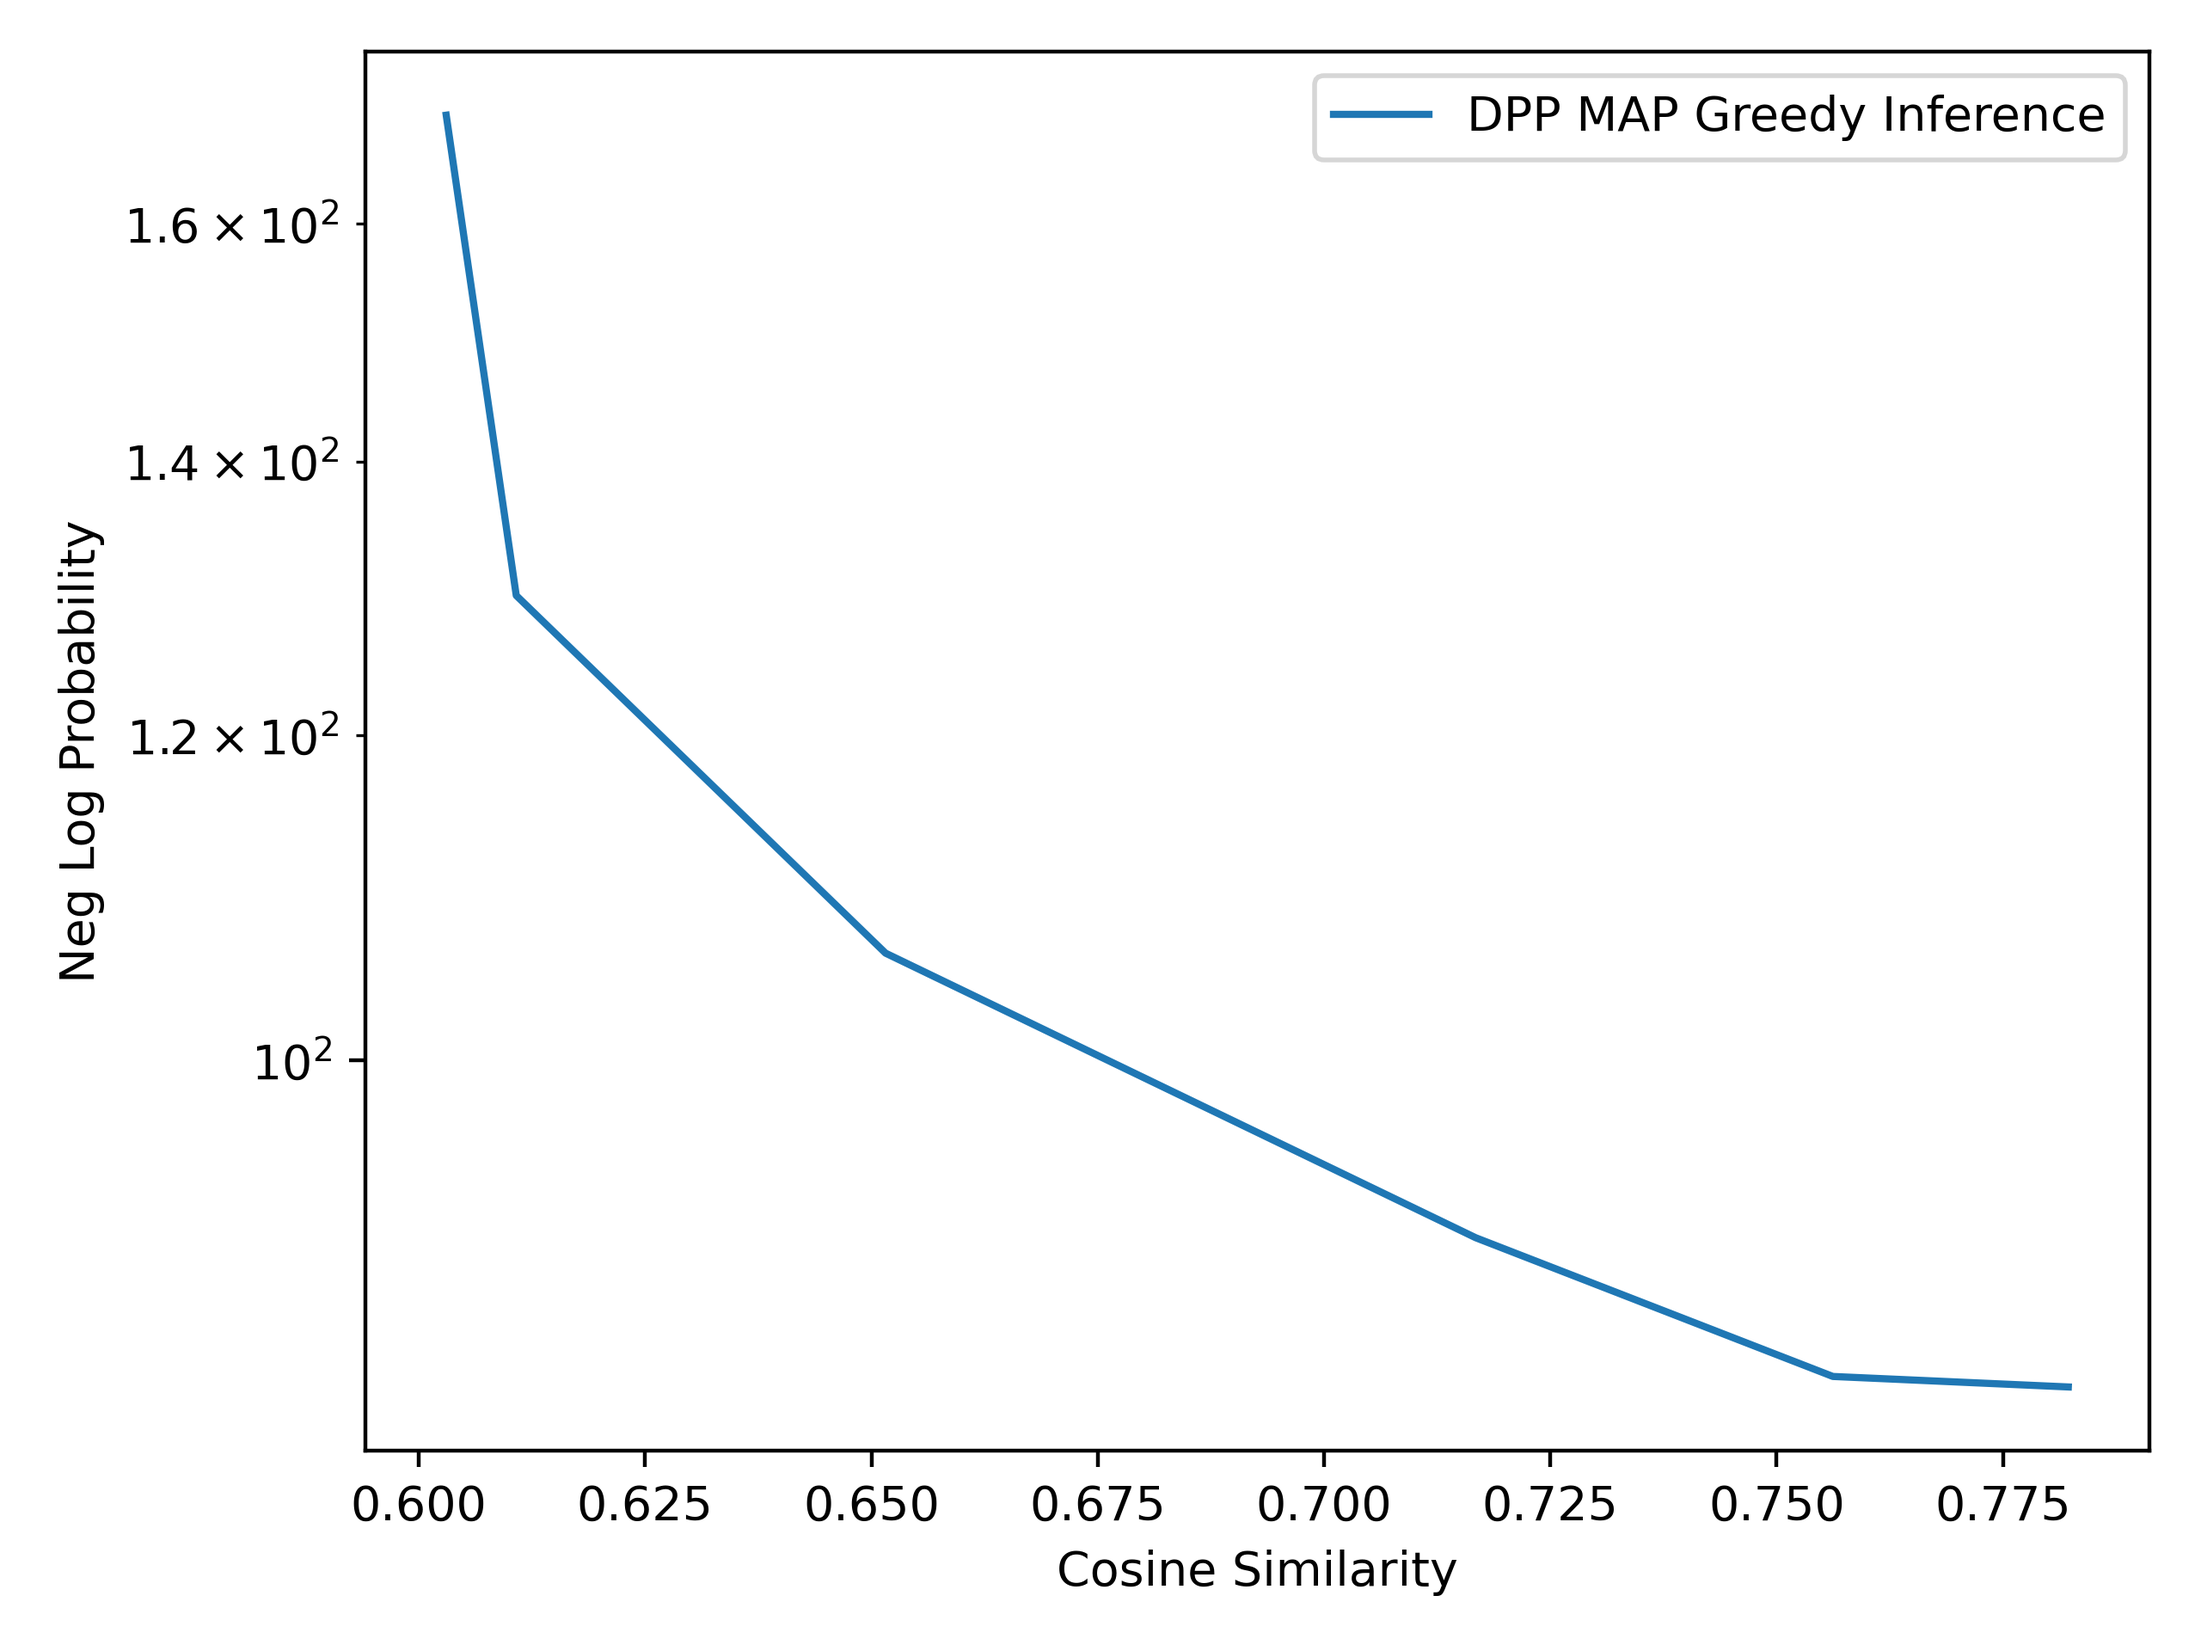
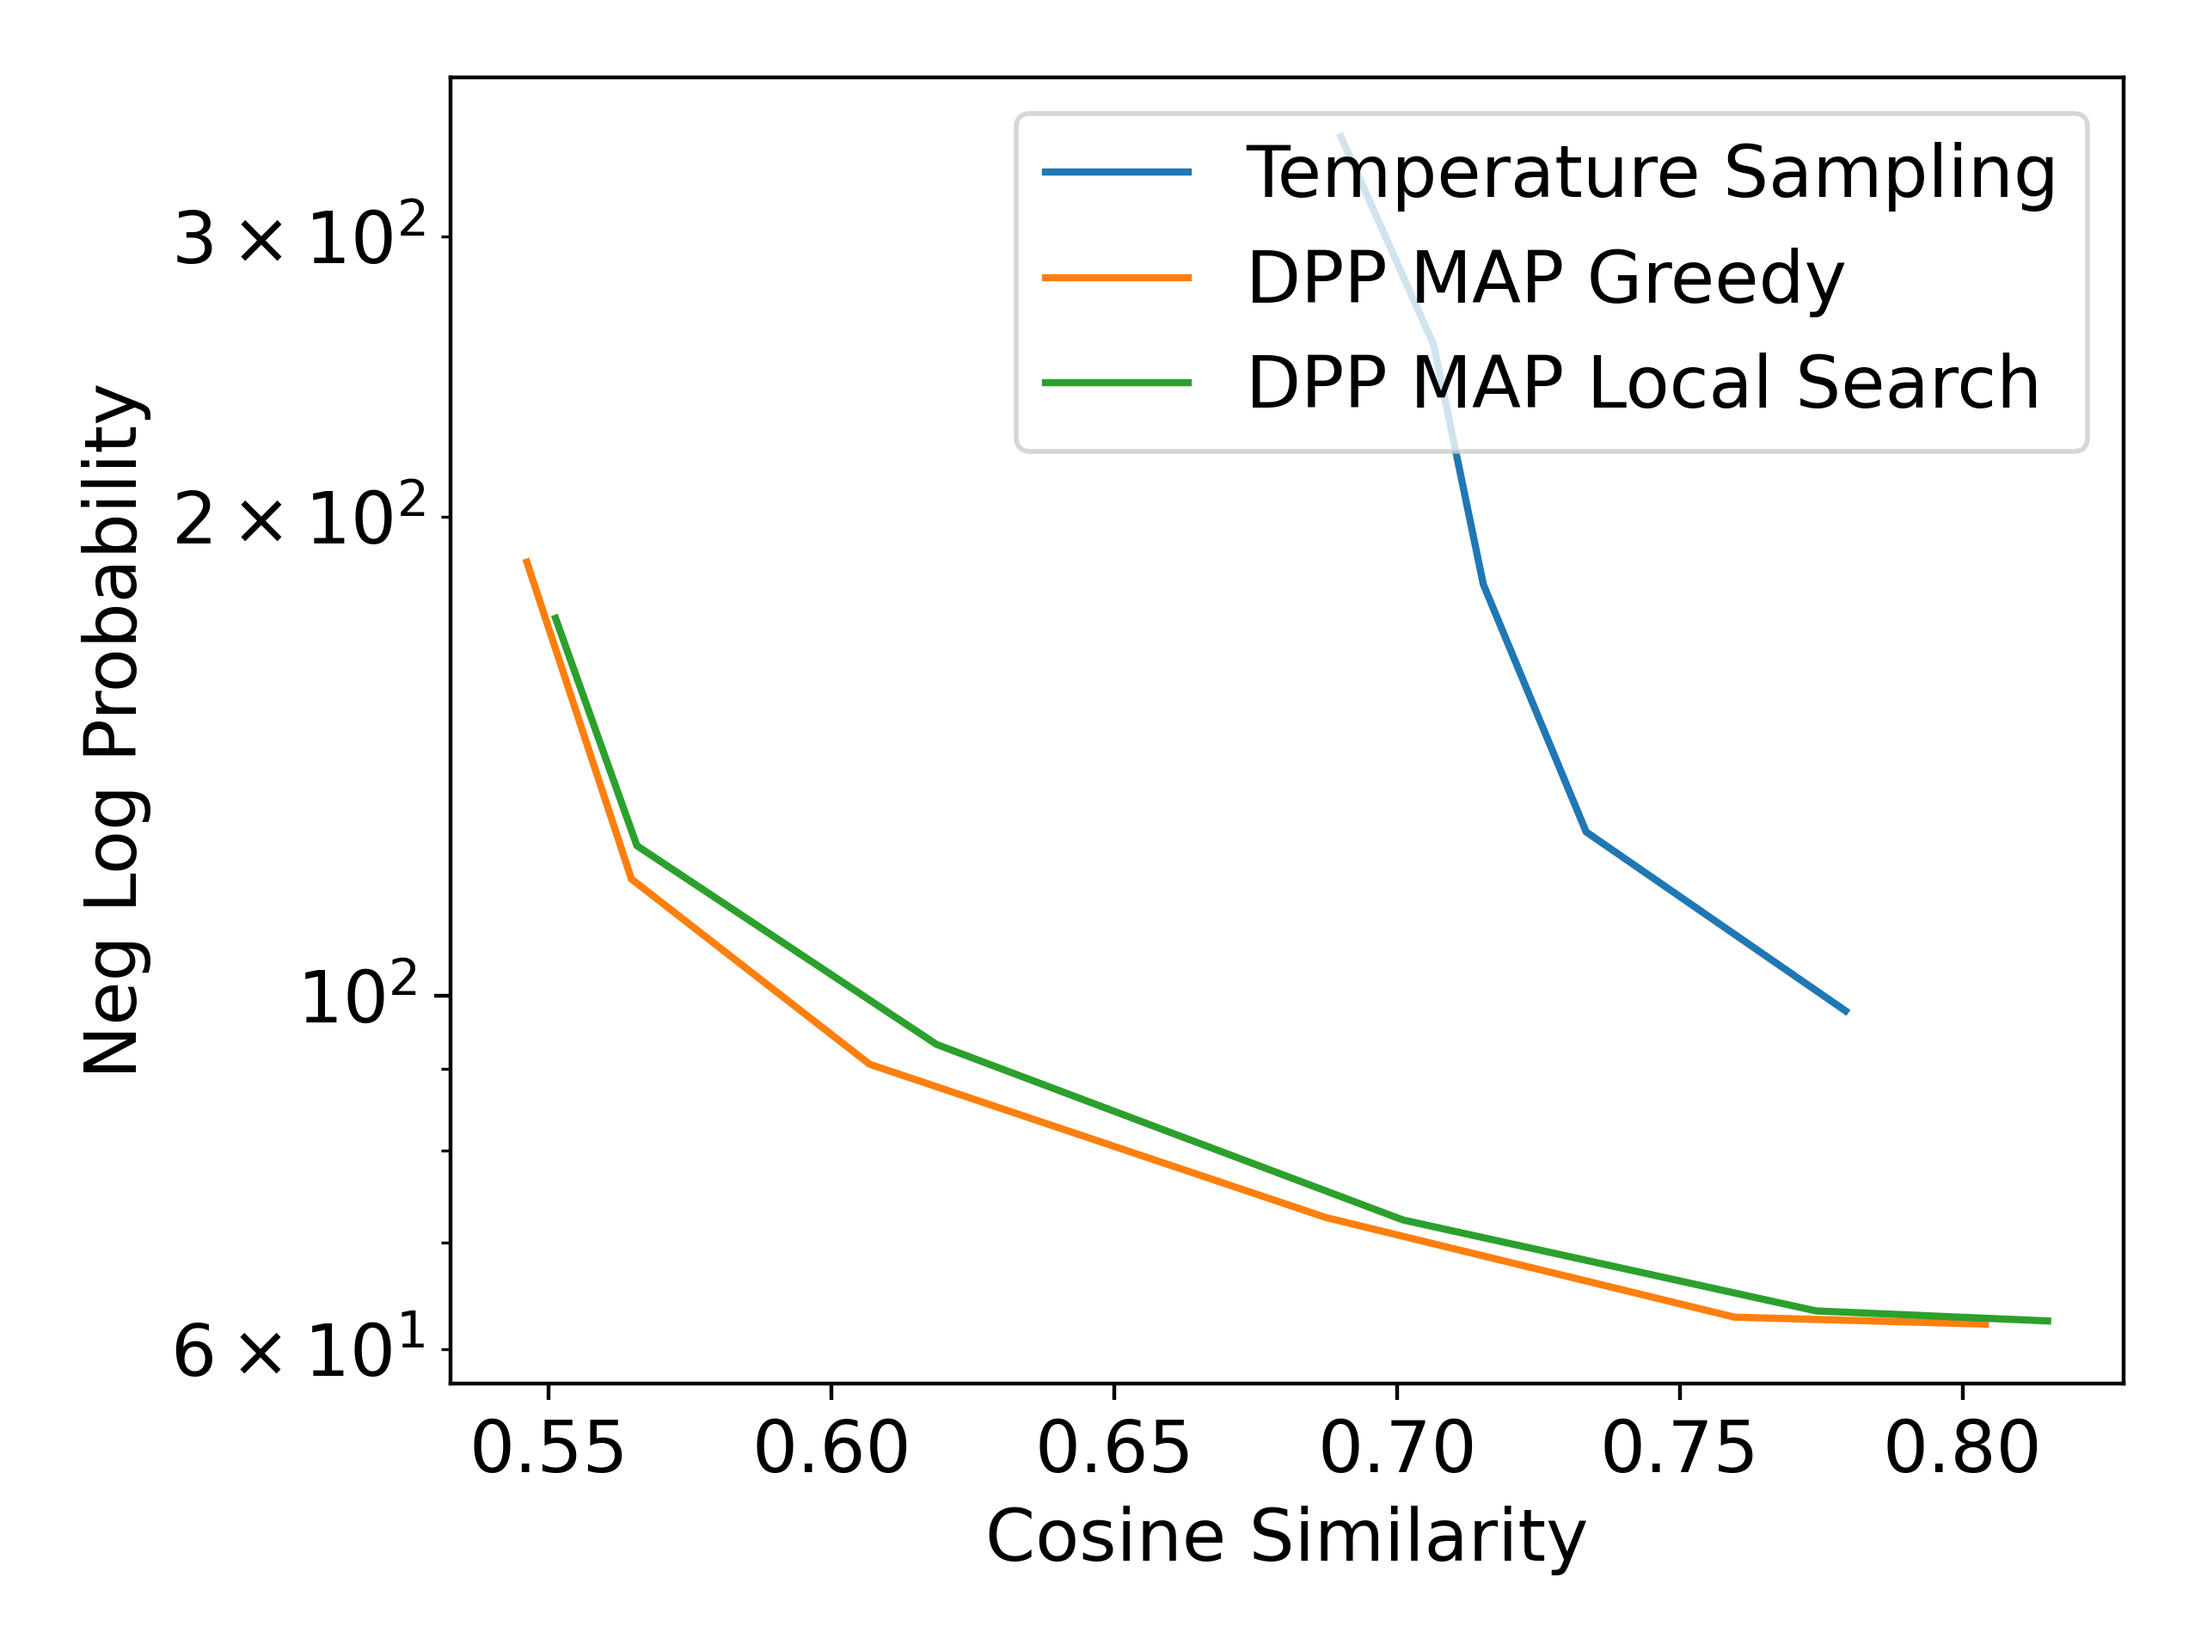
update

diff --git a/run_exp.py b/run_exp.py
@@ -5,6 +5,8 @@ import numpy as np
 import fire
 import pickle
 import time
+import torch
+import random
 
 from typing import List
 from dataclasses import dataclass
@@ -32,10 +34,20 @@ def preprocess_rocstories(df, max_samples=1000):
         })
     return data
 
+
 def load_rocstories(max_samples=1000):
     df = pd.read_csv('datasets/ROCStories/dataset_2017.csv')
     dataset = preprocess_rocstories(df, max_samples=max_samples)
     return dataset
+
+
+def seed_everything(seed):
+    torch.manual_seed(seed)
+    random.seed(seed)
+    np.random.seed(seed)
+    torch.manual_seed(seed)
+    torch.backends.cudnn.deterministic = True
+    torch.backends.cudnn.benchmark = False
 
 
 def evaluate(dataset, decoding_fn, embedding_model, k, num_seeds=1):
@@ -117,9 +129,9 @@ method_map = {
 }
 
 method_name_map = {
-    'naive': 'Naive Decoding',
+    'naive': 'Temperature Sampling',
     'dpp_sampling': 'DPP Sampling',
-    'dpp_map_greedy': 'DPP MAP Greedy Inference',
+    'dpp_map_greedy': 'DPP MAP Greedy',
     'dpp_map_ls': 'DPP MAP Local Search',
 }
 
@@ -132,9 +144,10 @@ class Args:
     run_id: int = 0
     methods: tuple[str] = ('naive', 'dpp_sampling', 'dpp_map_greedy', 'dpp_map_ls')
     rerun: bool = False
+    seed: int = 42
 
     # DPP specific params
-    dpp_params_n: int = 20
+    dpp_params_n: int = 50
 
     def update(self, **kwargs):
         methods = kwargs.get('methods', self.methods)
@@ -153,9 +166,11 @@ def main(**kwargs):
         args.num_seeds = 1
         args.rerun = True
         args.k = 2
+        args.dpp_params_n = 10
     wdir = f'./results/{args.run_id}/'
 
     print(f"Running with args: {args}")
+    seed_everything(args.seed)
 
     os.makedirs(wdir, exist_ok=True)
     language_model = Mistral()
@@ -171,6 +186,7 @@ def main(**kwargs):
 
     plot(res, method_names, 'cosine_similarity', 'neg_log_probs', y_scale='log', save_path=osp.join(wdir, 'cosine_log_probs.png'))
     plot(res, method_names, 'dpp_score', 'neg_log_probs', y_scale='log', save_path=osp.join(wdir, 'dpp_log_probs.png'))
+    plot(res, method_names, 'lp_distance', 'neg_log_probs', y_scale='log', save_path=osp.join(wdir, 'lp_dist_log_probs.png'))
 
 
 if __name__ == '__main__':

diff --git a/decoding.py b/decoding.py
@@ -8,6 +8,7 @@ def naive_decoding(prompt, language_model, embedding_model, k, temperature=0.7):
         temperature=temperature,
         num_samples=k,
     )
+
     return output
 
 
@@ -21,10 +22,15 @@ def dpp_decoding(prompt, language_model, embedding_model, k, method='sampling', 
     log_probs = output['logprobs']
     D = np.diag(np.exp(- log_probs ** 2 / kernel_width ** 2))
     S = (embeddings @ embeddings.T) / (np.linalg.norm(embeddings, axis=1) * np.linalg.norm(embeddings, axis=1).T)
+    gamma = 0.2
     L = gamma * S + (1 - gamma) * D
 
     if method == 'sampling':
-        dpp_samples = dpp_sampling(L, k)
+        # there is a bug in the dpp sampling code, potentially due to the matrix being singular
+        try:
+            dpp_samples = dpp_sampling(L, k)
+        except:
+            dpp_samples = np.random.choice(len(embeddings), k, replace=False)
     elif method == 'map_ls':
         dpp_samples, _, _, _, _, _ = map_inference_dpp_local_search_2(L, k)
     elif method == 'map_greedy':
@@ -32,6 +38,7 @@ def dpp_decoding(prompt, language_model, embedding_model, k, method='sampling', 
 
     generated_texts = [output['generated_text'][i] for i in dpp_samples]
     logprogs = output['logprobs'][dpp_samples]
+
     return {
         'generated_text': generated_texts,
         'logprobs': logprogs,

diff --git a/visualize.py b/visualize.py
@@ -3,6 +3,7 @@ from metrics import metric_map
 
 
 def plot(rescols, labels, x_metric, y_metric, x_scale='linear', y_scale='linear', save_path=None, show=False):
+    plt.rcParams.update({'font.size': 15})
     fig, ax = plt.subplots()
     for rescol, label in zip(rescols, labels):
         df = rescol.get_df()
